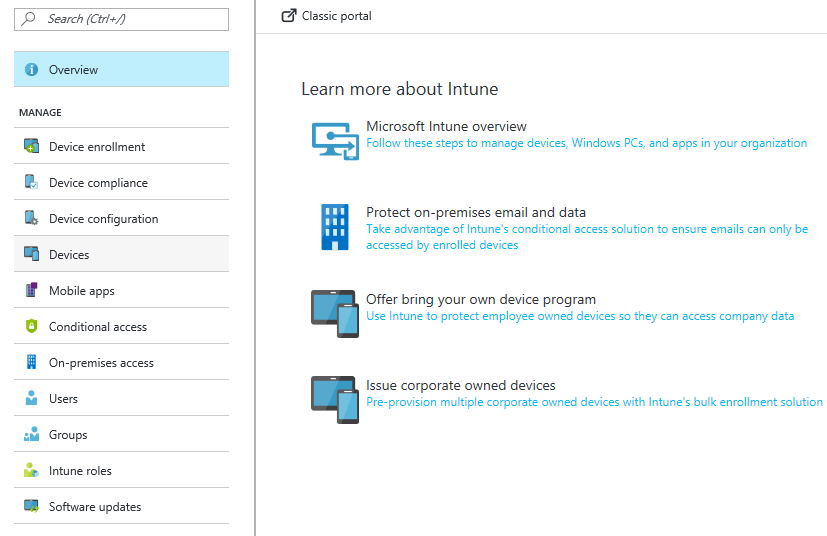
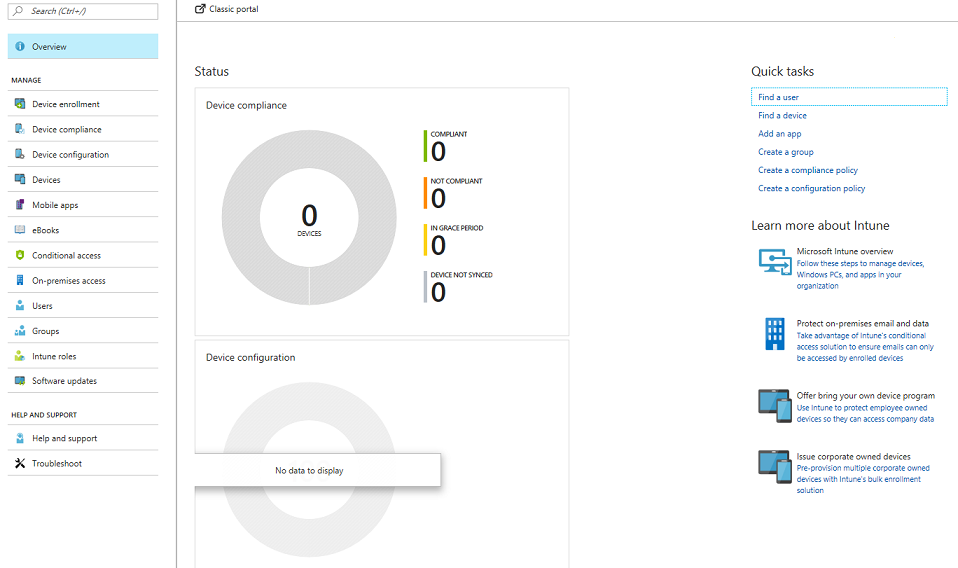
Addition of eBooks info

diff --git a/intune/vpp-ebooks-ios.md b/intune/vpp-ebooks-ios.md
@@ -1,0 +1,94 @@
+---
+# required metadata
+
+title: Manage volume-purchased iOS eBooks
+titleSuffix: "Intune on Azure"
+description: Learn about how you can sync books you purchased in volume from the iOS store into Intune and then manage and track their usage."
+keywords:
+author: robstackmsft
+ms.author: robstack
+manager: angrobe
+ms.date: 06/13/2017
+ms.topic: article
+ms.prod:
+ms.service: microsoft-intune
+ms.technology:
+ms.assetid: f5617074-2384-4812-b913-dc94f64c0818
+
+# optional metadata
+
+#ROBOTS:
+#audience:
+#ms.devlang:
+ms.reviewer: mghadial
+ms.suite: ems
+#ms.tgt_pltfrm:
+ms.custom: intune-azure
+---
+
+# How to manage iOS eBooks you purchased through a volume-purchase program with Microsoft Intune
+
+
+[!INCLUDE[azure_portal](./includes/azure_portal.md)]
+
+The Apple Volume Purchase Program (VPP) lets you purchase multiple licenses for a book that you want to distribute to users in your company from the Business, or Education stores. This helps you reduce the administrative overhead of tracking multiple purchased copies of books.
+
+Microsoft Intune helps you synchronize, manage, and assign books that you purchased through this program by importing the license information from the store and tracking how many of the licenses you have used.
+
+The procedures to manage books are similar to those you use for [managing apps](vpp-apps-ios.md).
+
+## Manage volume-purchased books for iOS devices
+You purchase multiple licenses for iOS books through the [Apple Volume Purchase Program for Business](http://www.apple.com/business/vpp/) or the [Apple Volume Purchase Program for Education](http://volume.itunes.apple.com/us/store). This involves setting up an Apple VPP account from the Apple website and uploading the Apple VPP token to Intune.  You can then synchronize your volume purchase information with Intune and track your volume-purchased book use.
+
+## Before you start
+Before you start, you'll need to get a VPP token from Apple and upload this to your Intune account. Additionally, you should understand the following:
+
+* You can associate up to 256 VPP tokens with your Intune account.
+* If you previously used a VPP token with a different product, you must generate a new one to use with Intune.
+* Each token is valid for one year.
+* By default, Intune syncs with the Apple VPP service twice a day. You can start a manual sync at any time.
+* After you have imported the VPP token to Intune, do not import the same token to any other device management solution. Doing so might result in the loss of license assignment and user records.
+* Before you start to use iOS books with Intune, remove any existing VPP user accounts created with other mobile device management (MDM) vendors. Intune will not synchronize those user accounts into Intune as a security measure. Intune will only synchronize data from the Apple VPP service that Intune created.
+* Currently, you can only assign books as a **Required** install. When you assign the book as a **Required** installation, each user who installs the book uses a license.
+* When you assign a book to a device, that device must have the built-in iBooks app installed. If it is not, the end user must re-install the app in order to read the book. You cannot currently use Intune to restore removed built-in apps.
+* You can only assign books from the Apple Volume Purchase Program site. You cannot upload, then assign books you created in-house.
+* You cannot currently assign books to end user categories in the same way as you do apps.
+* You cannot reclaim a license once the book is assigned.
+* When a user with an eligible device first tries to install a VPP book, they will be asked to join the Apple Volume Purchase program. They must do this before the book installation proceeds. You can also assign licenses to security groups with managed Apple IDs. If you do this, then users will not be prompted for their Apple ID when a book is installed.
+
+## To get and upload an Apple VPP token
+
+1. Sign into the Azure portal.
+2. Choose **More Services** > **Monitoring + Management** > **Intune**.
+3. On the **Intune** blade, choose **Mobile apps**.
+1.  In the **Mobile Apps** workload, choose **Setup** > **iOS VPP Tokens**.
+2.  On the list of VPP tokens blade, click **Add**.
+3.  On the **New VPP Token** blade, specify the following information:
+	- **VPP token file** - If you haven't already, sign up for the Volume Purchase Program for Business or the Volume Purchase Program for Education. After you sign up, download the Apple VPP token for your account and select it here.
+	- **Apple ID** - Enter the Apple ID of the account associated with the volume-purchase program.
+	- **Type of VPP account** - Choose from **Business** or **Education**.
+4. When you are done, click **Upload**.
+
+The token is displayed in the list of tokens blade.
+
+
+You can synchronize the data held by Apple with Intune at any time by choosing **Sync now**.
+
+## To assign a volume-purchased app
+
+1. In the **eBooks** workload, choose **Manage** > **All eBooks**.
+2. On the list of books blade, choose the book you want to assign, and then choose '**...**' > **Assign Groups**.
+3. On the <*book name*> - **Groups Assigned** blade, choose **Manage** > **Groups Assigned**.
+4. Choose **Assign Groups** then, on the **Select groups** blade, choose the Azure AD user groups to which you want to assign the book. Device groups are currently not supported.
+You must choose an assignment action of **Required**. 
+5. Once you are done, choose **Save**.
+
+## Next steps
+
+See [How to monitor apps](apps-monitor.md) for information to help you monitor book assignments.
+
+
+
+
+
+

diff --git a/intune/TOC.md b/intune/TOC.md
@@ -121,9 +121,10 @@
 ### [Android app configuration profiles](app-configuration-policies-use-android.md)
 ### [Use iOS app provisioning profiles](app-provisioning-profile-ios.md)
 ### [Selectively wipe apps](apps-selective-wipe.md)
-### [Work with volume-purchased apps](vpp-apps.md)
+### [Work with volume-purchased apps and books](vpp-apps.md)
 #### [iOS VPP apps](vpp-apps-ios.md)
 #### [Windows Store for Business apps](windows-store-for-business.md)
+#### [iOS eBooks](vpp-ebooks-ios.md)
 ### [Configure the Company Portal app](company-portal-app.md)
 ### [Configure the Managed Browser](app-configuration-managed-browser.md)
 ## [Use app protection policies](app-protection-policies.md)

diff --git a/intune/what-is-intune.md b/intune/what-is-intune.md
@@ -8,7 +8,7 @@ keywords:
 author: robstackmsft
 ms.author: robstack
 nmanager: angrobe
-ms.date: 06/09/2017
+ms.date: 06/13/2017
 ms.topic: get-started-article
 ms.prod:
 ms.service: microsoft-intune
